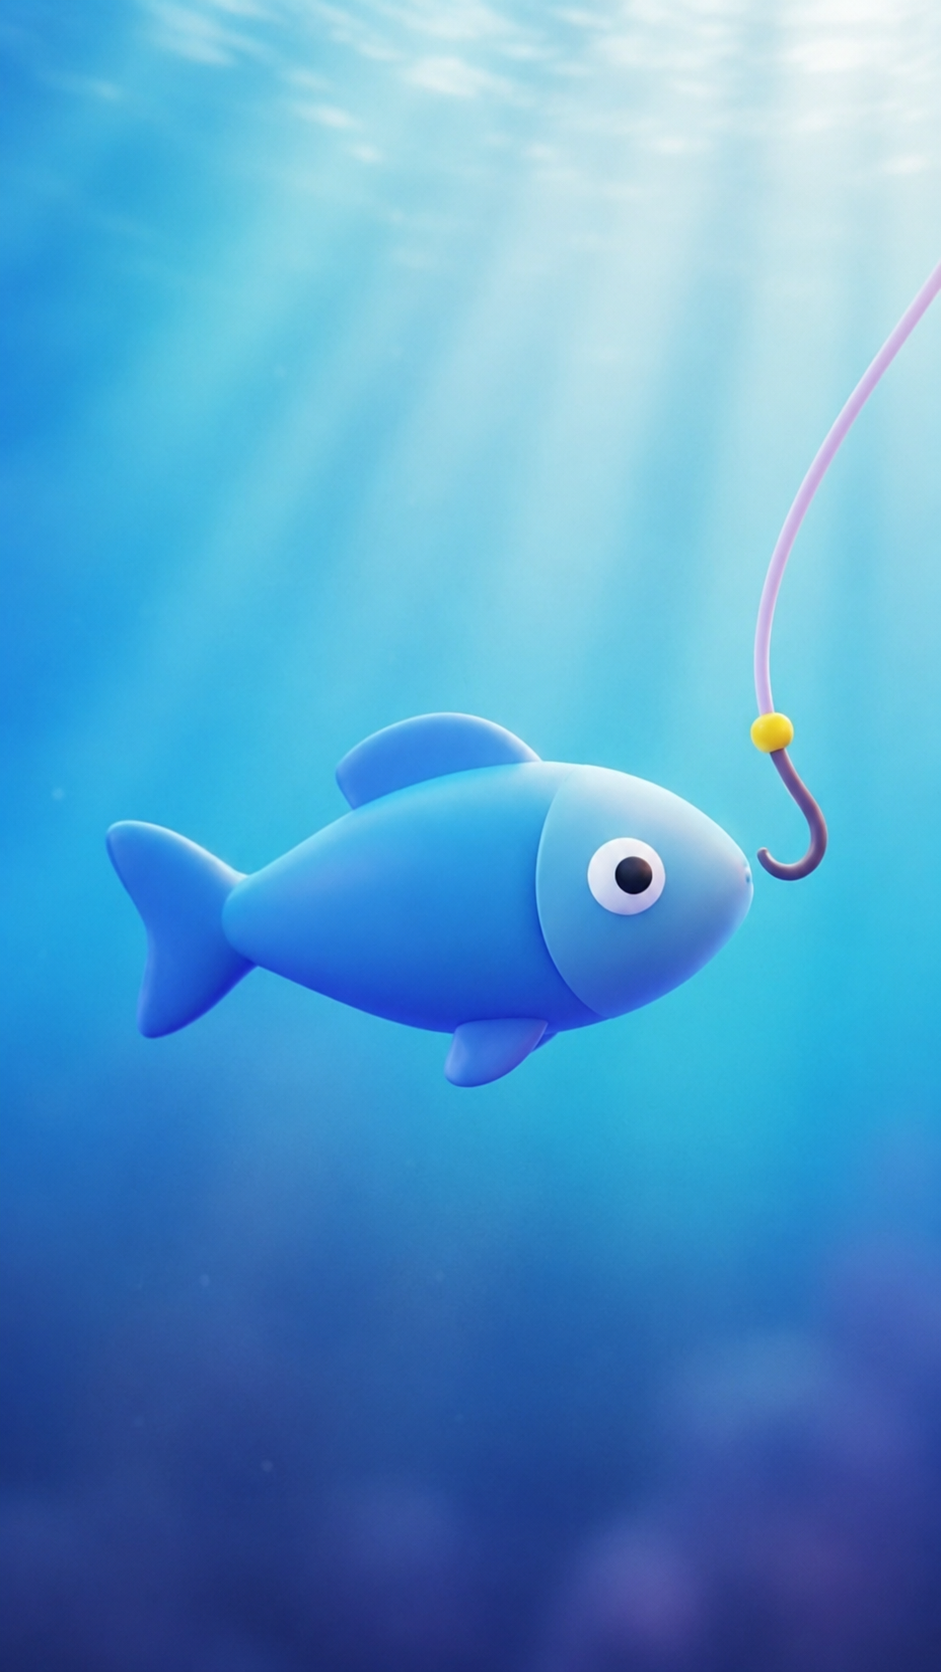
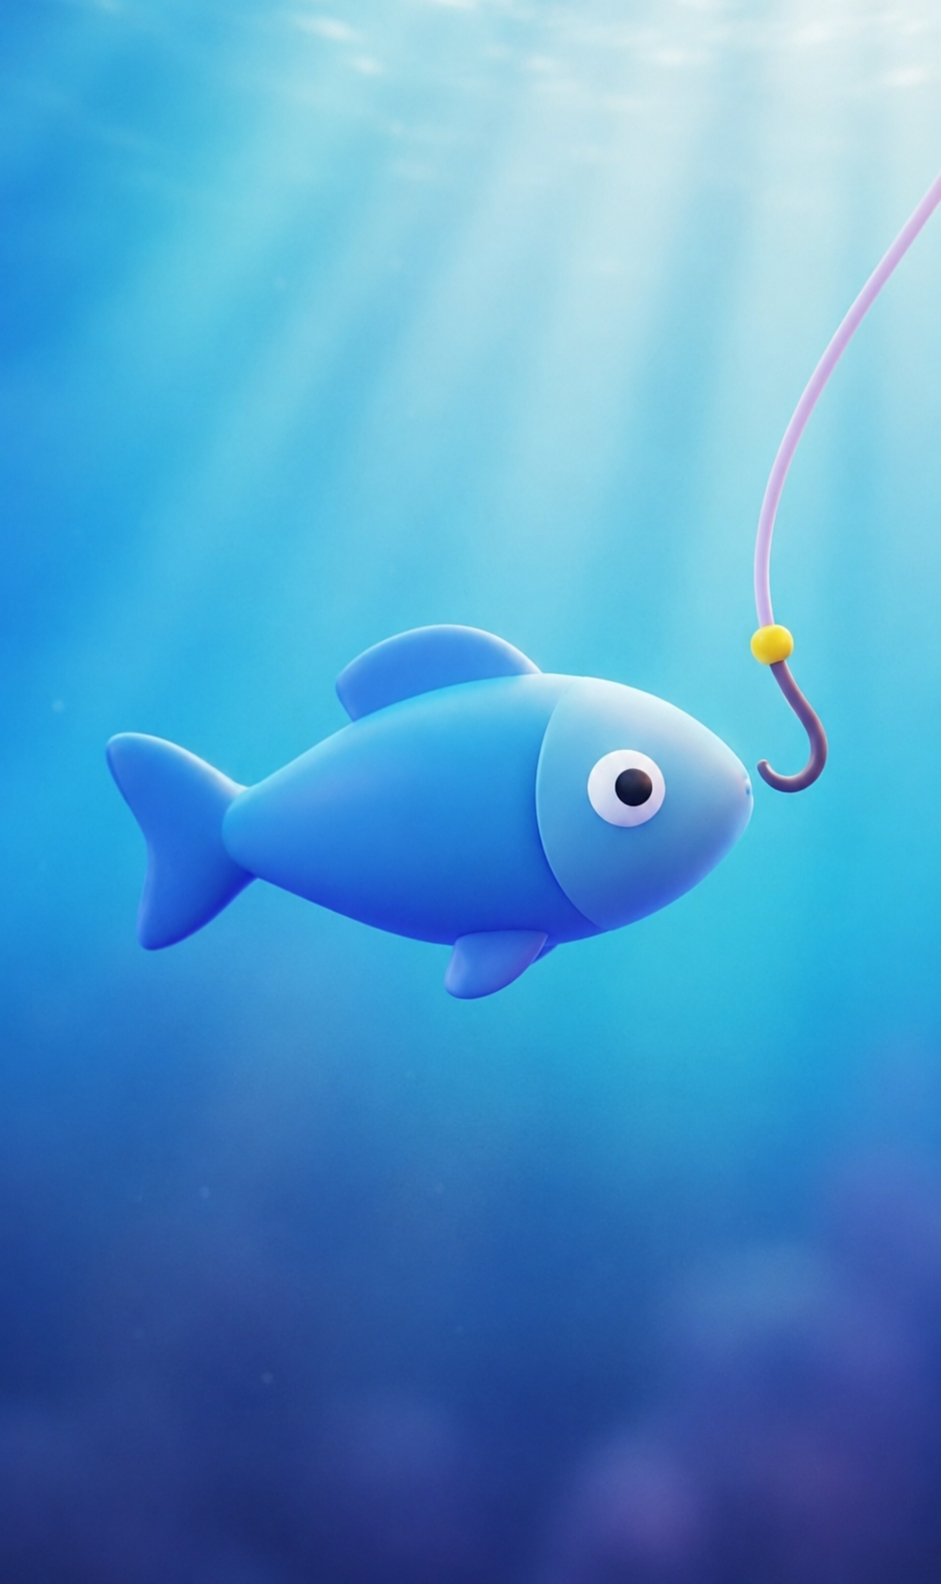
Update image assets and enhance HomeScreen layout

diff --git a/screens/HomeScreen.jsx b/screens/HomeScreen.jsx
@@ -18,8 +18,8 @@ const FULL_ITEM_SIZE = ITEM_HEIGHT + SPACING * 2;
 
 // 2. Updated Mock Data with Image URIs (Using high-quality placeholders)
 const DATA = [
-    { id: '1', imageurl: require('../assets/images/icon.png'), title: 'MouseGame' },
-    { id: '2', imageurl: require('../assets/cardImages/fish1.png'), title: 'FishGame' },
+    { id: '1', imageurl: require('../assets/cardImages/mouse.png'), title: 'MouseGame' },
+    { id: '2', imageurl: require('../assets/cardImages/fish.png'), title: 'FishGame' },
     { id: '3', imageurl: require('../assets/images/icon.png'), title: 'screen3' },
     { id: '4', imageurl: require('../assets/images/icon.png'), title: 'screen4' },
     { id: '5', imageurl: require('../assets/images/icon.png'), title: 'screen5' },
@@ -96,7 +96,7 @@ export default function HomeScreen({ navigation }) {
             <View style={styles.header}>
                 <Text style={styles.headerText}>PAWS</Text>
                 <TouchableOpacity style={styles.premium} onPress={() => Alert.alert("🎉Free to Use")}>
-                    <AntDesign name="crown" size={24} color="#fffb00" />
+                    <AntDesign name="crown" size={22} color="#ffff" />
                 </TouchableOpacity>
             </View>
             <Animated.FlatList
@@ -108,7 +108,7 @@ export default function HomeScreen({ navigation }) {
                 decelerationRate="fast"
                 showsVerticalScrollIndicator={false}
                 contentContainerStyle={{
-                    paddingVertical: (SCREEN_HEIGHT - FULL_ITEM_SIZE) / 3.5,
+                    paddingVertical: (SCREEN_HEIGHT - FULL_ITEM_SIZE) / 4.5,
                 }}
                 renderItem={({ item, index }) => (
                     <CarouselItem item={item} index={index} scrollY={scrollY} navigation={navigation} />
@@ -122,33 +122,38 @@ export default function HomeScreen({ navigation }) {
 const styles = StyleSheet.create({
     container: {
         flex: 1,
-        backgroundColor: '#121212',
+        backgroundColor: '#f1f1f1', // Light background for better contrast with cards
     },
     header: {
         width: '90%',
         marginLeft: '5%',
+        marginTop: 15,
         height: 60,
         borderRadius: 50,
-        backgroundColor: "#6B4EEA",
+        backgroundColor: "#f1f1f1",//#6B4EEA
         flexDirection: "row",
         justifyContent: "space-between",
         alignItems: "center",
         paddingHorizontal: 20,
+         shadowColor: '#000',
+        shadowOffset: { width: 0, height: 10 },
+        shadowOpacity: 0.4,
+        shadowRadius: 24,
     },
     headerText: {
         fontFamily: "sans-serif",
         fontStyle: "italic",
         fontSize: 28,
         fontWeight: 900,
-        color: "#fff"
+        color: "#000"
     },
     premium: {
-        width: 35,
-        height: 35,
+        width: 40,
+        height: 40,
         alignItems: "center",
         justifyContent: "center",
-        borderRadius: 15,
-        backgroundColor: "#fff"
+        borderRadius: 18,
+        backgroundColor: "#000"
     },
     itemWrapper: {
         height: FULL_ITEM_SIZE,